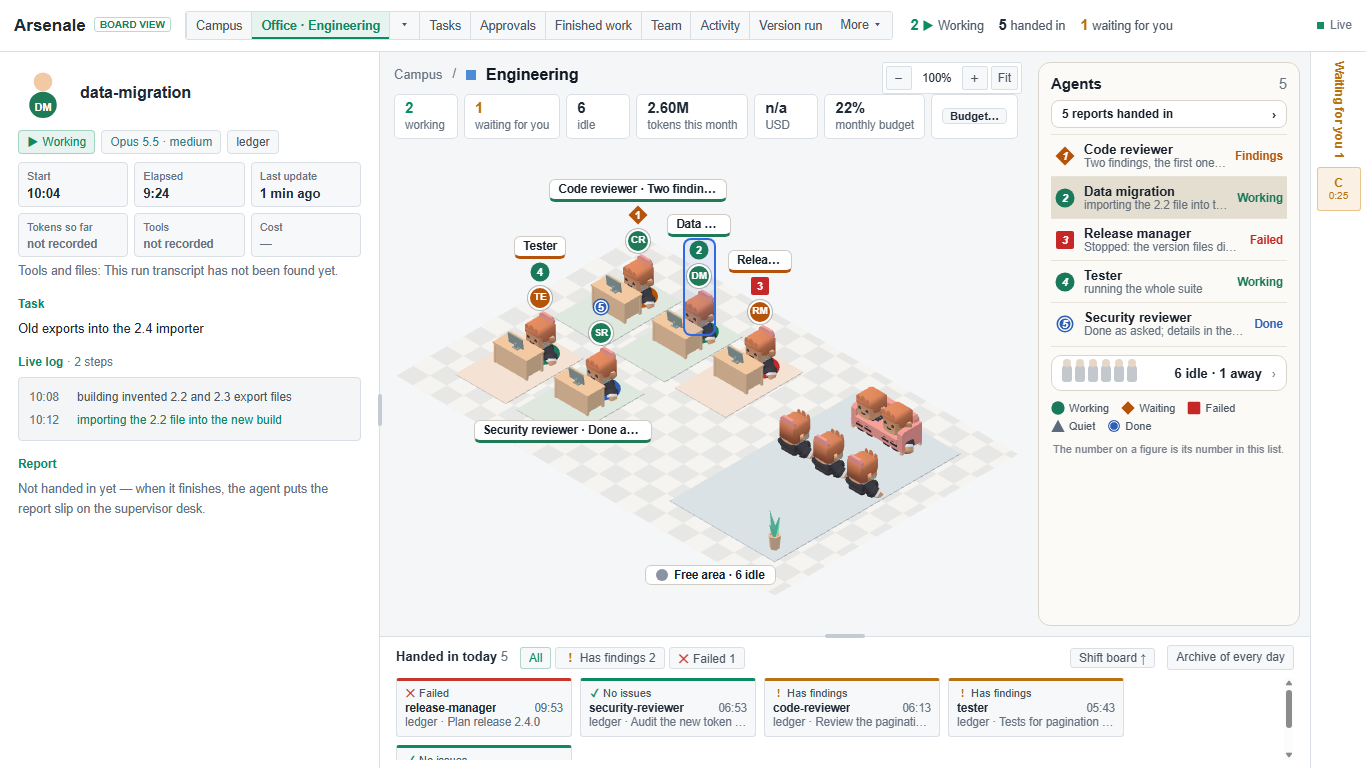
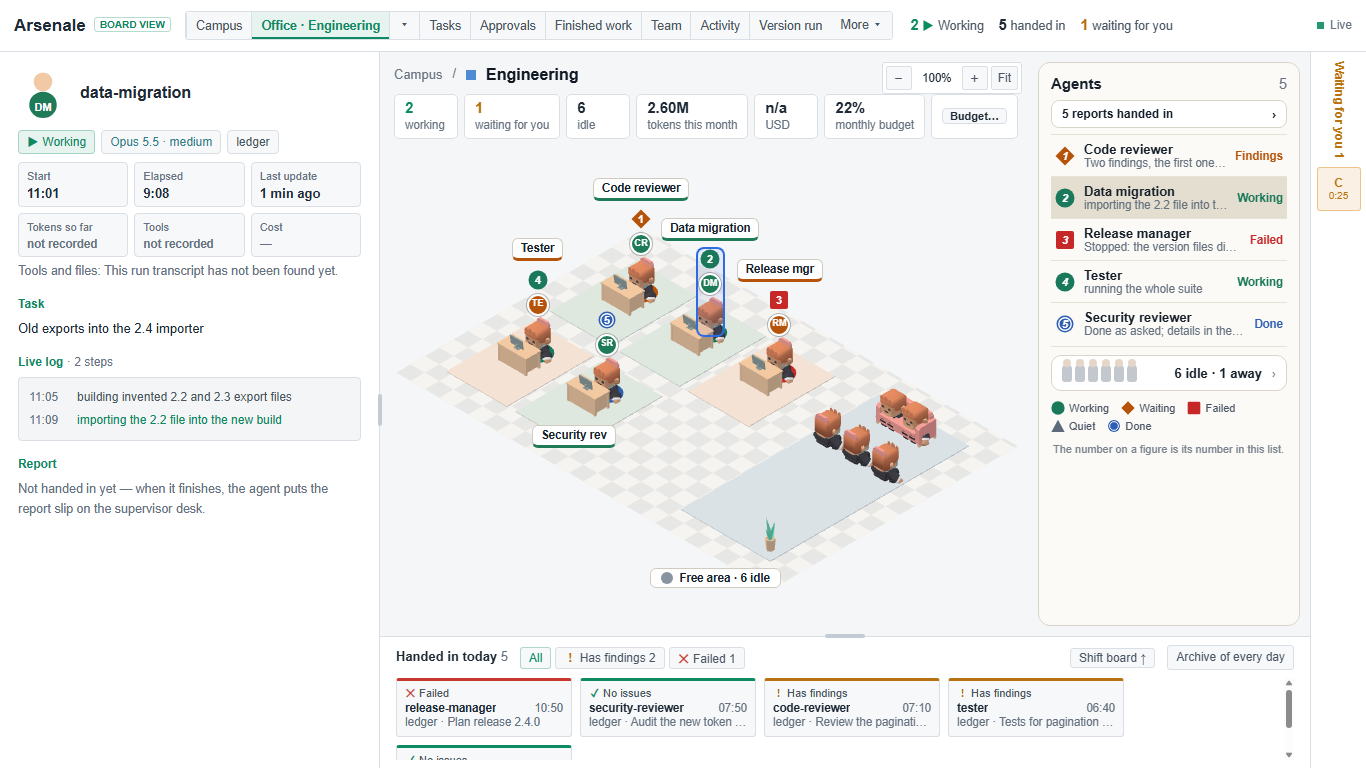
Office: one short name above each desk, clear of heads; step and full name as a tip on hover or focus
Labels were cut (Data ..., Relea...) and sat on the characters' heads. Now a short name of at most 14 characters, never an ellipsis, stands above the head with clear space; the step is in the list and in a tip. Wider desk grid; layout test checks label to head, label to label and truncation at 1366 and 1920. Golden hashes refreshed: only the four pages that inline the world code changed (+2612 bytes each). Office picture and the two office frames of the walkthrough GIF re-recorded from arsenale demo.

diff --git a/CHANGELOG.md b/CHANGELOG.md
@@ -5,6 +5,7 @@ All notable changes are listed here. Versions follow
 
 ## Unreleased
 
+- **Short labels above the desks (owner feedback).** Above each desk there is now only a short name (at most 14 characters, never an ellipsis: "Data migration", "Release mgr", "Security rev"), placed clear of the head, the badges and other labels; the step and the full name show as a tip on hover or focus of the figure or its label, and stay in the side list. The desk grid is a little wider (2.4 x 3.6) so the labels fit. The office layout test now also checks label to head and label to label spacing and that no label is truncated, at 1366 and 1920. The office picture in the README and the office frames of the walkthrough GIF are re-recorded; the four page golden hashes that inline the world code changed (+2612 bytes each), the archive pages did not.
 - **An open campus and an open office (owner feedback on the media).** The campus is one continuous flat checkerboard like a build grid: no trees, no raised slab, no tile with a border per lot; a lot's outline shows only in Build mode. A building's title is a small pill on the ground, put on the nearest spot that covers no building and no other title (a short leader line joins it to its lot when it had to move), and it carries the number of agents working there now ("Engineering · 3") and a "waiting" count only when something waits. The office has no rooms and no walls: one open checkerboard floor with the desks in a clean grid, each on a light tile in its zone colour with a "name · step" label over the figure (N runs of one agent are N desks), and one free area with a sofa and chairs where all idle agents sit, labelled "N idle". Tests keep every title off every building and off every other title at 1366 and 1920 wide. README media re-recorded.
 - **Real campus buildings, furniture and people; a white checkerboard theme; new README media.** The 12 office types now use 12 different CC0 models from Kenney's City Kit (Commercial, Industrial, Suburban), so the campus mixes offices, factories, a water tower and houses; the office floor uses Kenney's Furniture Kit (desk, chair, screen, sofa, plant) and one Mini Characters figure sits at every desk, with the zone-colour initials badge and the number badge above the head. The asset manifest takes `building:<type>`, `furniture:<name>` and `character:<style>`; the shapes in code stay as the fallback. The campus lots and the office rooms are two-tone checkerboards on a white page again (not green grass), and a building's label stands on its own roof. Models are in `tools/assets/kenney/` (about 2 MB, licence texts in `tools/assets/licenses/`). Every README and `docs/screenshots/` image and the walkthrough GIF are re-recorded from `arsenale demo`.
 - **Security hardening.** CLI actions that claim `"by":"board"` (campus, budgets, approvals, gate answers) need the owner's launch key in `ARSENALE_BOARD_TOKEN` (or `--board-token`); without it they act as an agent and board-only actions are refused. Supervisor campus edits need an active version run whose process is alive or that was updated in the last 30 minutes. `arsenale init` skips a symbolic link at a destination instead of writing through it.

diff --git a/docs/reference.md b/docs/reference.md
@@ -221,11 +221,13 @@ of its zone, and a free area beside it with a sofa and chairs. A run is a figure
 initials on it, a number badge above (a circle for working, a triangle for quiet, a
 diamond for waiting, a square for failed, a ring for done). The name, the step and
 the state are in the side list under the same number, and a small label over the
-figure says "name · step". Two runs of one agent are two figures at two desks
-("Implementer · run 1", "run 2"), and a run keeps its figure, number and desk for
+figure says its short name (at most 14 characters, never cut with an ellipsis; "Release mgr"
+for "Release manager"); the step and the full name show as a tip when you hover or focus the figure or
+its label. Two runs of one agent are two figures at two desks ("Implementer 1", "Implementer 2";
+"run 1", "run 2" in the list), and a run keeps its figure, number and desk for
 its whole life. Idle people are not at desks: they sit together in the free area,
-under an "N idle" label, and are in the list. A label takes the nearest free slot,
-shrinks, and then disappears rather than cover a figure or another label. Wheel to zoom, drag to pan, **Fit** (or Esc) for the
+under an "N idle" label, and are in the list. A label stands clear above the head
+(or, when the figure behind leaves no room, on its desk tile) and never covers a figure, a badge or another label. Wheel to zoom, drag to pan, **Fit** (or Esc) for the
 whole office; the camera stays where you left it through every redraw. Without
 WebGL, and in the built file, the office stays the flat isometric one and the
 campus is a flat grid of tiles.
